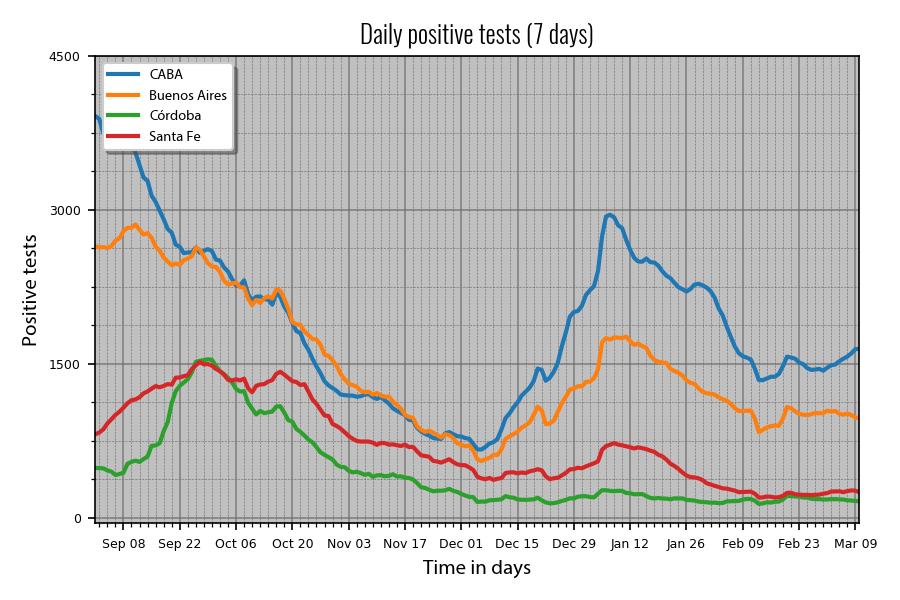
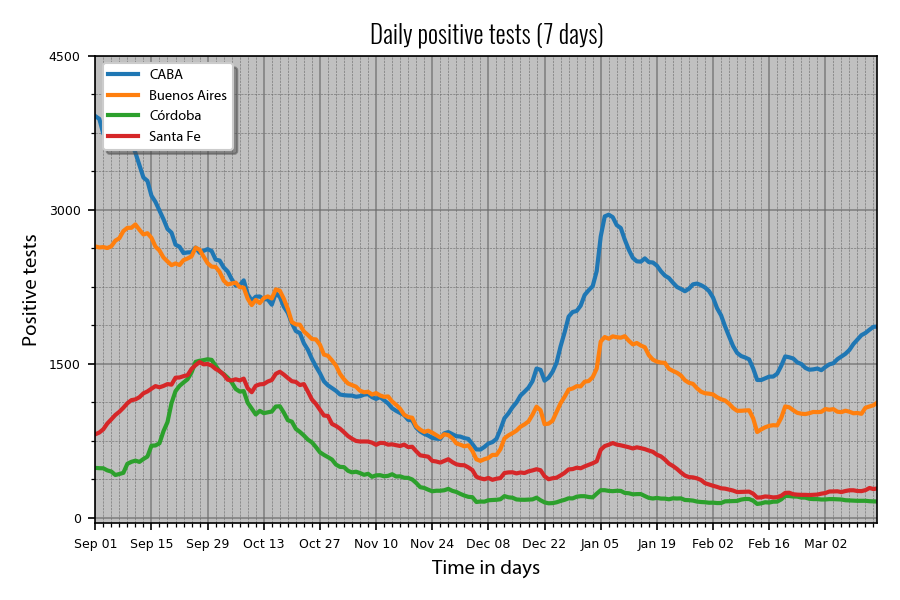
Updating testing charts...

Changed region(s): [[0.0933, 0.03, 0.9956, 0.96]]

diff --git a/COVID-19_DataGobAr_TestsAnalysis.py b/COVID-19_DataGobAr_TestsAnalysis.py
@@ -22,14 +22,14 @@ chartPath = "Argentina_Data/actual_charts/testing/"
 colorlist = ["orange", "tab:blue", "tab:red", "tab:green"]
 
 dataStartDate = "2020-02-11"
-dataEndDate = "2021-03-15"
+dataEndDate = "2021-03-25"
 wantedStartDate = "2020-09-01"
-wantedEndDate = "2021-03-10"
+wantedEndDate = "2021-03-15"
 dataPeriod = pd.date_range(dataStartDate, dataEndDate)
 plotScale = "linear"
 
 #Deciding language for titles and tags...
-lg = 1 # 0 for english, 1 for spanish
+lg = 0 # 0 for english, 1 for spanish
 ticksSizes = [1500, 250000, 0.1, 100000]
 
 #Deciding if you want to save and show charts...
